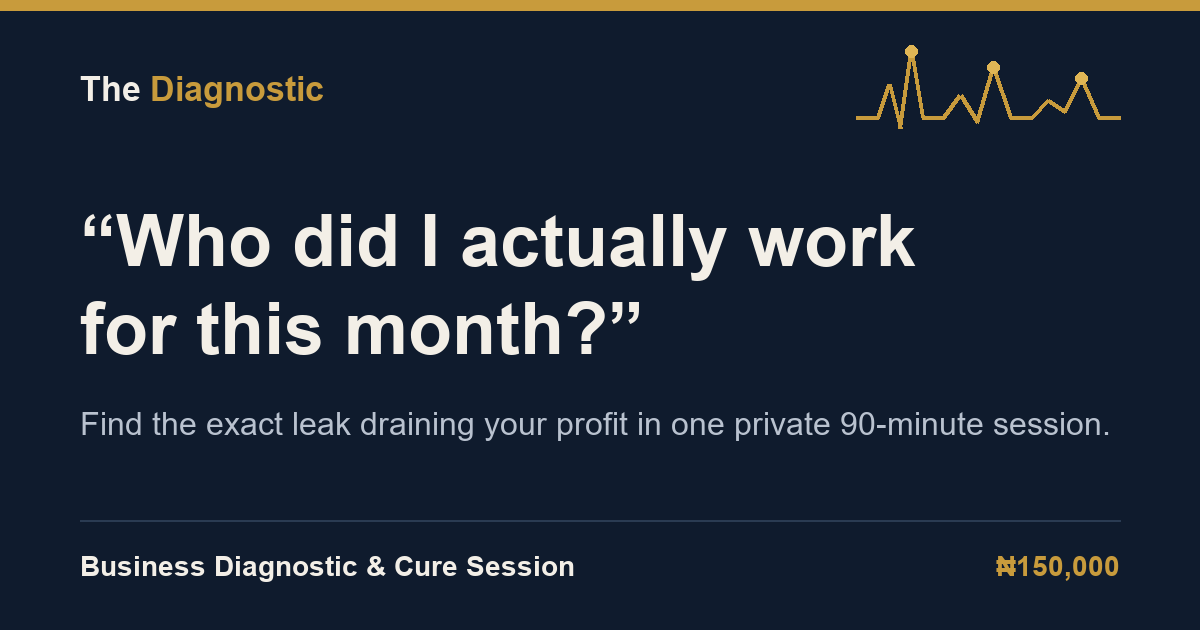
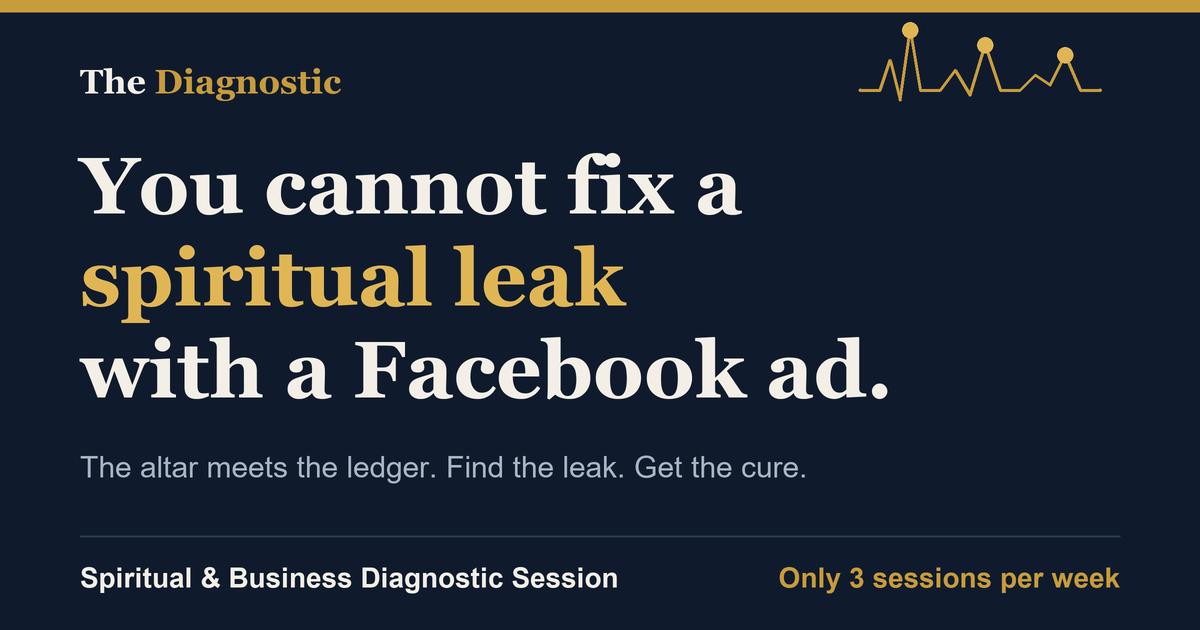
fix: fixed js error, theme, and og image

diff --git a/book-your-session.html b/book-your-session.html
@@ -4,15 +4,7 @@
 <head>
   <meta charset="UTF-8" />
   <meta name="viewport" content="width=device-width, initial-scale=1" />
-  <script>
-    (function () {
-      try {
-        var stored = localStorage.getItem("diagnostic-theme");
-        var theme = stored || (window.matchMedia && window.matchMedia("(prefers-color-scheme: light)").matches ? "light" : "dark");
-        if (theme === "light") document.documentElement.setAttribute("data-theme", "light");
-      } catch (e) { }
-    })();
-  </script>
+  <script>document.documentElement.setAttribute("data-theme", "light");</script>
   <title>Book Your Business Diagnostic Session | The Diagnostic</title>
   <meta name="description"
     content="Secure one of 3 weekly Business Diagnostic &amp; Cure Sessions, with the Business Rescue Arsenal included free." />
@@ -34,7 +26,7 @@
   <meta property="og:image:width" content="1200" />
   <meta property="og:image:height" content="630" />
   <meta property="og:image:alt"
-    content="The Diagnostic: “Who did I actually work for this month?” Business Diagnostic & Cure Session." />
+    content="The Diagnostic: “You cannot fix a spiritual leak with a Facebook ad.” Spiritual & Business Diagnostic Session." />
 
   <!-- Twitter / X -->
   <meta name="twitter:card" content="summary_large_image" />
@@ -43,7 +35,7 @@
     content="Secure one of 3 weekly Business Diagnostic &amp; Cure Sessions, with the Business Rescue Arsenal included free." />
   <meta name="twitter:image" content="https://grandmeridianlines.com/assets/img/og-image.png" />
   <meta name="twitter:image:alt"
-    content="The Diagnostic: “Who did I actually work for this month?” Business Diagnostic & Cure Session." />
+    content="The Diagnostic: “You cannot fix a spiritual leak with a Facebook ad.” Spiritual & Business Diagnostic Session." />
   <link rel="preconnect" href="https://fonts.googleapis.com" />
   <link rel="preconnect" href="https://fonts.gstatic.com" crossorigin />
   <link
@@ -280,24 +272,6 @@
       width: auto;
       accent-color: var(--color-accent);
     }
-
-    .toast {
-      position: fixed;
-      left: 50%;
-      bottom: 24px;
-      transform: translateX(-50%);
-      max-width: calc(100% - 32px);
-      padding: 14px 18px;
-      border-radius: var(--radius-sm);
-      background: var(--color-alert-strong);
-      color: #fff;
-      font-size: 0.9375rem;
-      z-index: 50;
-    }
-
-    .toast[hidden] {
-      display: none;
-    }
   </style>
 
   <!-- Meta Pixel Code -->
@@ -391,7 +365,7 @@
                 </div>
               </fieldset>
 
-              <button type="submit" class="btn btn--primary btn--block btn--large" id="booking-submit">
+              <button type="submit" class="btn btn--primary btn--block btn--large">
                 Continue to pick a time
                 <i class="fa-solid fa-arrow-right" aria-hidden="true"></i>
               </button>
@@ -447,41 +421,12 @@
   </footer>
 
   <script src="assets/js/script.js"></script>
-  <div class="toast" id="toast" role="alert" hidden></div>
   <script>
     document.getElementById("year").textContent = new Date().getFullYear();
 
-    var form = document.getElementById("booking-form");
-    var submitBtn = document.getElementById("booking-submit");
-    var toast = document.getElementById("toast");
-
-    function showToast(message) {
-      toast.textContent = message;
-      toast.hidden = false;
-      setTimeout(function () { toast.hidden = true; }, 6000);
-    }
-
-    form.addEventListener("submit", function (event) {
+    document.getElementById("booking-form").addEventListener("submit", function (event) {
       event.preventDefault();
-      submitBtn.disabled = true;
-
-      fetch("/api/bookings", {
-        method: "POST",
-        headers: { "Content-Type": "application/json" },
-        body: JSON.stringify({
-          full_name: document.getElementById("full-name").value,
-          phone: document.getElementById("phone").value,
-          email: document.getElementById("email").value,
-          business_name: document.getElementById("business-name").value,
-          format: document.querySelector('input[name="format"]:checked').value
-        })
-      }).then(function (res) {
-        if (!res.ok) throw new Error("Request failed");
-        window.location.href = "thank-you.html";
-      }).catch(function () {
-        submitBtn.disabled = false;
-        showToast("We could not save your details. Please try again.");
-      });
+      window.location.href = "thank-you.html";
     });
   </script>
 </body>

diff --git a/the-diagnostic.html b/the-diagnostic.html
@@ -4,15 +4,7 @@
 <head>
   <meta charset="UTF-8" />
   <meta name="viewport" content="width=device-width, initial-scale=1" />
-  <script>
-    (function () {
-      try {
-        var stored = localStorage.getItem("diagnostic-theme");
-        var theme = stored || (window.matchMedia && window.matchMedia("(prefers-color-scheme: light)").matches ? "light" : "dark");
-        if (theme === "light") document.documentElement.setAttribute("data-theme", "light");
-      } catch (e) { }
-    })();
-  </script>
+  <script>document.documentElement.setAttribute("data-theme", "light");</script>
   <title>What&rsquo;s Included in the Spiritual &amp; Business Diagnostic Session | The Diagnostic</title>
   <meta name="description"
     content="A private, closed-door session that attacks the sickness in your business from both realms: the spiritual and the operational. Here is what happens and what you leave with." />
@@ -32,14 +24,14 @@
   <meta property="og:image" content="https://grandmeridianlines.com/assets/img/og-image.png" />
   <meta property="og:image:width" content="1200" />
   <meta property="og:image:height" content="630" />
-  <meta property="og:image:alt" content="The Diagnostic: “Who did I actually work for this month?” Business Diagnostic & Cure Session." />
+  <meta property="og:image:alt" content="The Diagnostic: “You cannot fix a spiritual leak with a Facebook ad.” Spiritual & Business Diagnostic Session." />
 
   <!-- Twitter / X -->
   <meta name="twitter:card" content="summary_large_image" />
   <meta name="twitter:title" content="What&rsquo;s Included in the Spiritual &amp; Business Diagnostic Session | The Diagnostic" />
   <meta name="twitter:description" content="A private, closed-door session that attacks the sickness in your business from both realms: the spiritual and the operational. Here is what happens and what you leave with." />
   <meta name="twitter:image" content="https://grandmeridianlines.com/assets/img/og-image.png" />
-  <meta name="twitter:image:alt" content="The Diagnostic: “Who did I actually work for this month?” Business Diagnostic & Cure Session." />
+  <meta name="twitter:image:alt" content="The Diagnostic: “You cannot fix a spiritual leak with a Facebook ad.” Spiritual & Business Diagnostic Session." />
   <link rel="preconnect" href="https://fonts.googleapis.com" />
   <link rel="preconnect" href="https://fonts.gstatic.com" crossorigin />
   <link

diff --git a/index.html b/index.html
@@ -26,7 +26,7 @@
   <meta property="og:image:width" content="1200" />
   <meta property="og:image:height" content="630" />
   <meta property="og:image:alt"
-    content="The Diagnostic: “Who did I actually work for this month?” Business Diagnostic & Cure Session." />
+    content="The Diagnostic: “You cannot fix a spiritual leak with a Facebook ad.” Spiritual & Business Diagnostic Session." />
 
   <!-- Twitter / X -->
   <meta name="twitter:card" content="summary_large_image" />
@@ -35,7 +35,7 @@
     content="A private 90-minute session for Nigerian business owners. We open your books, find the exact leak draining your profit, and hand you a step-by-step recovery plan." />
   <meta name="twitter:image" content="https://grandmeridianlines.com/assets/img/og-image.png" />
   <meta name="twitter:image:alt"
-    content="The Diagnostic: “Who did I actually work for this month?” Business Diagnostic & Cure Session." />
+    content="The Diagnostic: “You cannot fix a spiritual leak with a Facebook ad.” Spiritual & Business Diagnostic Session." />
 
   <!-- Structured data for search results -->
   <script type="application/ld+json">

diff --git a/thank-you.html b/thank-you.html
@@ -4,15 +4,7 @@
 <head>
   <meta charset="UTF-8" />
   <meta name="viewport" content="width=device-width, initial-scale=1" />
-  <script>
-    (function () {
-      try {
-        var stored = localStorage.getItem("diagnostic-theme");
-        var theme = stored || (window.matchMedia && window.matchMedia("(prefers-color-scheme: light)").matches ? "light" : "dark");
-        if (theme === "light") document.documentElement.setAttribute("data-theme", "light");
-      } catch (e) { }
-    })();
-  </script>
+  <script>document.documentElement.setAttribute("data-theme", "light");</script>
   <title>Your Slot Is Reserved | The Diagnostic</title>
   <meta name="robots" content="noindex, nofollow" />
   <link rel="icon" href="assets/img/favicon.svg" type="image/svg+xml" />

diff --git a/assets/js/script.js b/assets/js/script.js
@@ -5,21 +5,7 @@ document.addEventListener("DOMContentLoaded", function () {
 function initTheme() {
   var toggle = document.querySelector(".theme-toggle");
   var root = document.documentElement;
-  var stored = null;
-
-  try {
-    stored = localStorage.getItem("diagnostic-theme");
-  } catch (e) {
-    // Fail gracefully
-    console.error(e);
-  }
-
-  var initial = stored;
-  if (!initial) {
-    initial = window.matchMedia && window.matchMedia("(prefers-color-scheme: light)").matches
-      ? "light"
-      : "dark"; // Start with system theme preference
-  }
+  var initial = "light";
 
   applyTheme(initial);
 

diff --git a/README.md b/README.md
@@ -82,33 +82,7 @@ The footer currently contains links for:
 
 ## 2. Booking Data
 
-When the form is submitted, the booking is saved to `data/bookings.json` by `server.js`. It is a single file with no npm packages and no build step, and it needs Node.js 20.6 or newer.
-
-**Run:**
-
-```bash
-node server.js
-```
-
-Then open `http://localhost:3000`. Pages must be opened through the server, not by double-clicking the HTML file, or bookings won't save.
-
-Each record looks like this:
-
-```json
-{
-  "id": "6f1c0a52-8d1e-4b7e-9a35-2f0c1c7d9e11",
-  "full_name": "Ada Obi",
-  "phone": "0803...",
-  "email": "ada@example.com",
-  "business_name": "Obi Foods",
-  "format": "in-person",
-  "submitted_at": "2026-09-25T10:02:00.000Z"
-}
-```
-
-`data/` is git-ignored, because it holds customer details. The server only serves the HTML pages and `assets/`, so it can't be downloaded from the site.
-
-**Hosting:** the host must run Node.js, for example cPanel's "Setup Node.js App", Render, Railway or a VPS. Static-only hosts such as GitHub Pages or Netlify can't save bookings.
+The site is fully static and has no backend. The booking form does not store anything: submitting it sends the visitor to `thank-you.html`, which redirects to the TidyCal page, where the booking itself is recorded.
 
 ---
 
@@ -161,7 +135,6 @@ Before the site goes live, confirm that:
 - [ ] Refund policy has been added
 - [ ] Privacy Policy page/link has been added
 - [ ] Terms & Conditions page/link has been added
-- [ ] Booking data storage/notification has been connected
 - [ ] Real testimonials have been added when available
 - [ ] All pages have been tested on mobile
 - [ ] Booking form has been tested before accepting real bookings
